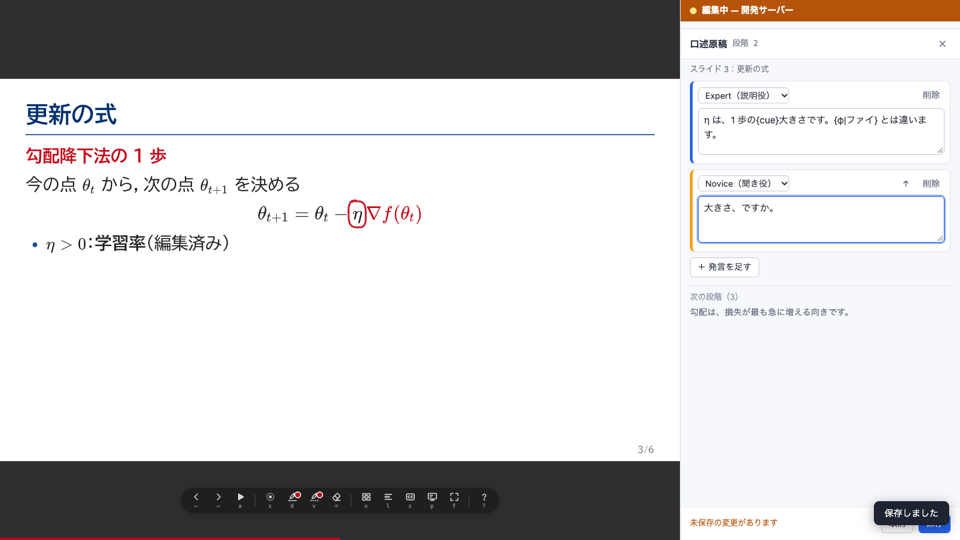
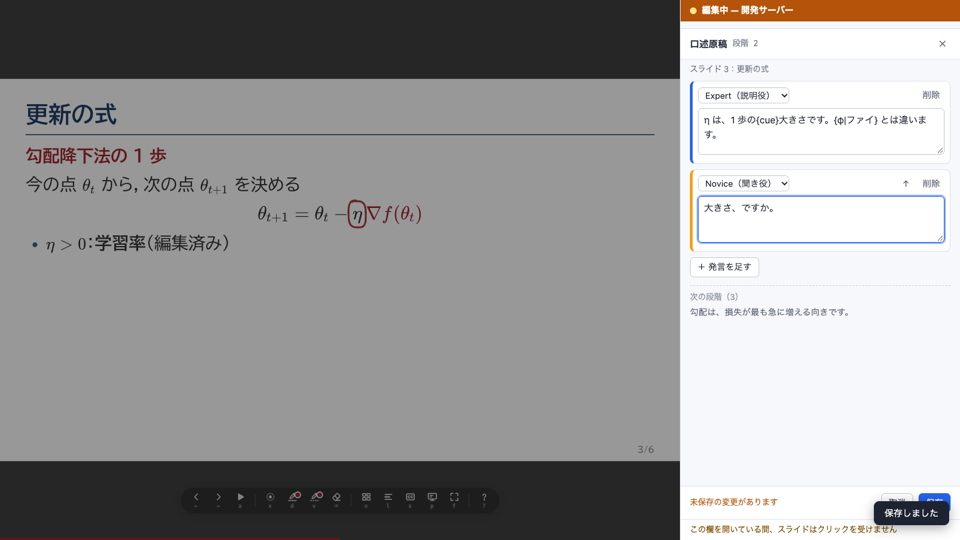
編集の画面：信頼する入力の欄で編集している間（原稿の欄・指示の欄を開いている、口述原稿の欄に入力している・未保存の変更がある）は、プレビューを inert にする（口述原稿の引き出しも。引き出しにも「スライドはクリックを受けません」を出す）。その間もデッキの位置の知らせは受け取るが、デッキからの知らせ（e・n・c・Escape・編集・指示）で板の欄を開け閉め・切り替えせず、入力している口述原稿の段階も替えない（欄から離れ、未保存の変更がなければ今の段階に付いていく）。口述原稿の引き出しの画面を撮り直す。試験：引き出しを開いただけでは inert でなく付いていく、欄に入ると inert で位置

diff --git a/server/editor-ui.js b/server/editor-ui.js
@@ -18,7 +18,10 @@
 // 信頼する編集の道具（編集モードの札・原稿の欄・コメントの欄と一覧・口述原稿の引き出し）は、どれもプレビューの外の横の板（#dev-side、
 // drawerHost の中で iframe の隣）に出す。スライドの場所に重ねる欄はない。板の上には、デッキが自分の枠の外に描けない印（色の帯）を付ける。
 // スライドの場所に見えるものは、どれもデッキが描けるもの：信じてよいのはこの板の道具だけ。
-// 原稿の欄・コメントの欄を開いている間は、プレビューを inert にしてクリックを受けない（欄への入力をデッキが横取りできない）
+// 信頼する入力の欄で編集している間（原稿の欄・コメントの欄を開いている、口述原稿の欄に入力している・未保存の変更がある）は、
+// プレビューを inert にしてクリックも鍵盤も受けない（欄への入力をデッキが横取りできない）。その間もデッキの位置の知らせは受け取るが、
+// デッキからの知らせで板の欄を開け閉めしたり、編集中の口述原稿の段階を替えたりはしない（頼んでいない切り替えで編集から離されない）。
+// 口述原稿の引き出しは、入力していなければ（欄から離れれば）今のスライドの段階に付いていく
 //   ui.message(e)  プレビューからの message（e.source は呼ぶ側でも確かめる）。扱ったら true
 //   ui.frameLoading(keepPos)  プレビューを読み込み直す前に呼ぶ（keepPos なら読み込んだ後に同じ位置へ戻す）
 //   ui.reset()  別のデッキを開いた（入力は捨てる）
@@ -79,6 +82,7 @@ const CSS = [
   '#dev-badge .dv-warn{background:#f59e0b;color:#231400;border-radius:999px;padding:0 8px;cursor:pointer;opacity:1}',
   '.dev-where{color:#4b5363;font-size:12.5px;margin:-2px 0 8px}',
   '.dev-lock{color:#7a4b00;font-size:12px;margin-top:6px}',
+  '#dev-narr .dev-lock{display:none;margin:0;padding:6px 14px;background:#fff;border-top:1px solid #e3e6ee}#dev-side.dv-locked #dev-narr .dev-lock{display:block}',
   'iframe.dev-locked{opacity:.55;filter:grayscale(.3)}',
   '#dev-mark{order:0}#dev-badge{order:1}#dev-editor{order:2}#dev-comment{order:3}#dev-comments{order:4}#dev-narr{order:5}',
   '#dev-editor{padding:12px 14px}',
@@ -172,13 +176,16 @@ export function createEditorUI(o) {
   }
 
   // ---------------------------------------------------------------- 状態
-  let editOn = false, pos = null, restorePos = null, info = null, target = null;
-  let editor = null, cbox = null, cpanel = null, commentsOpen = false, narrOpen = false, drawer = null, narr = null;
-  // 板を出すか（何か開いているとき）と、欄を開いている間のプレビューの鍵（inert：クリックも入力も受けない）
+  let editOn = false, pos = null, restorePos = null, info = null, target = null, ignored = 0;
+  let editor = null, cbox = null, cpanel = null, commentsOpen = false, narrOpen = false, drawer = null, narr = null, narrFocus = false;
+  // 信頼する入力の欄で編集しているか：原稿の欄・コメントの欄を開いている、口述原稿の欄に入力している（focus）・未保存の変更がある
+  const editing = () => !!(editor || cbox || (narr && (narr.dirty || narrFocus)));
+  // 板を出すか（何か開いているとき）と、編集している間のプレビューの鍵（inert：クリックも入力も受けない）
   function updateSide() {
     side.hidden = !(editOn || editor || cbox || cpanel || drawer);
-    const lock = !!(editor || cbox), f = frameEl();
+    const lock = editing(), f = frameEl();
     if (f) { f.inert = lock; f.classList.toggle('dev-locked', lock); }
+    side.classList.toggle('dv-locked', lock);
   }
   const busy = () => !!((editor && editor.ta.value !== editor.orig) || (cbox && cbox.ta.value.trim()));
   function sendState() { post({ type: 'edit-state', edit: editOn, target }); }
@@ -385,9 +392,17 @@ export function createEditorUI(o) {
     if (on && !enabled()) return false;
     if (on && o.beforeEdit && !(await o.beforeEdit('narr'))) return false;
     narrOpen = on;
-    if (drawer) { drawer.remove(); drawer = null; narr = null; }
+    if (drawer) { drawer.remove(); drawer = null; narr = null; narrFocus = false; }
     if (narrOpen) {
       drawer = h('aside', { id: 'dev-narr', cls: 'edit-ui', 'aria-label': L.nTitle });
+      // 口述原稿の欄（文字と話者）に入っている間は「編集している」。欄から離れたら、その間に動いた位置に付いていく
+      const field = (t) => !!(t && t.matches && t.matches('textarea, select'));
+      drawer.addEventListener('focusin', (e) => { if (field(e.target)) { narrFocus = true; updateSide(); } });
+      drawer.addEventListener('focusout', (e) => {
+        if (field(e.relatedTarget) && drawer && drawer.contains(e.relatedTarget)) return;
+        narrFocus = false; updateSide();
+        if (narr && !narr.dirty) setTimeout(() => { if (!narrFocus && narr && !narr.dirty) narrFollow(); }, 0);
+      });
       side.appendChild(drawer);
       narrFollow(true);
     } else focusFrame();
@@ -399,6 +414,7 @@ export function createEditorUI(o) {
     if (!drawer || !pos) { if (drawer && !narr) drawer.textContent = ''; return; }
     const key = pos.key;
     if (!force && narr && narr.key === key) { renderNext(); return; }
+    if (!force && narrFocus && narr && !narr.dirty) return;   // 入力している間は段階を替えない（欄から離れたら付いていく）
     if (narr && narr.dirty) {
       if (narr.key === key) return;
       const stale = drawer.querySelector('.dv-stale');
@@ -430,11 +446,12 @@ export function createEditorUI(o) {
     drawer.appendChild(h('div', { cls: 'dv-sub', text: L.slide(narr.i + 1, String(title).replace(/\s+/g, ' ').trim()) }));
     drawer.appendChild(body);
     drawer.appendChild(h('div', { cls: 'dv-foot' }, [status, revert, saveBtn]));
+    drawer.appendChild(h('div', { cls: 'dev-lock', text: L.locked }));
     const stale = h('div', { cls: 'dv-stale' }); body.appendChild(stale);
     const nmsg = h('div', { cls: 'dev-msg' }); body.appendChild(nmsg);
     if (loading) { saveBtn.disabled = true; body.appendChild(h('div', { cls: 'dev-empty', text: L.loading })); return; }
     if (narr.error) { saveBtn.disabled = true; showErr(nmsg, narr.error); return; }
-    const markDirty = () => { narr.dirty = true; status.textContent = L.dirty; status.className = 'dv-st dv-dirty'; };
+    const markDirty = () => { narr.dirty = true; status.textContent = L.dirty; status.className = 'dv-st dv-dirty'; updateSide(); };
     const list = h('div', { cls: 'dv-turns' }); body.appendChild(list);
     function drawTurns() {
       list.innerHTML = '';
@@ -473,7 +490,7 @@ export function createEditorUI(o) {
         saveBtn.disabled = false;
         if (j._status !== 200) { status.textContent = j._offline ? L.offline : (j.error || L.saveFail); status.className = 'dv-st dv-dirty'; return; }
         if (j.rev) cur.rev = j.rev;
-        cur.dirty = false; status.textContent = j.changed ? L.saved : L.noChange; status.className = 'dv-st';
+        cur.dirty = false; status.textContent = j.changed ? L.saved : L.noChange; status.className = 'dv-st'; updateSide();
         if (narr === cur && pos && pos.key !== cur.key) narrFollow(true);
       });
     }
@@ -483,7 +500,7 @@ export function createEditorUI(o) {
       e.stopPropagation();
     }
     saveBtn.onclick = doSave;
-    revert.onclick = () => { cur.dirty = false; narrFollow(true); };
+    revert.onclick = () => { cur.dirty = false; narrFocus = false; updateSide(); narrFollow(true); };
   }
   function renderNext(box) {
     box = box || (drawer && drawer.querySelector('.dv-next'));
@@ -536,9 +553,14 @@ export function createEditorUI(o) {
       const r = restorePos; restorePos = null;
       if (r) post({ type: 'deck-cmd', cmd: 'goto', i: r.i, k: r.k });
       sendState(); drawBadge();
-      loadInfo().then(() => { if (narrOpen && (!narr || !narr.dirty)) narrFollow(true); });
+      loadInfo().then(() => { if (narrOpen && (!narr || !(narr.dirty || narrFocus))) narrFollow(true); });
       if (commentsOpen) loadComments();
-    } else if (m.kind === 'key' && typeof m.key === 'string') key(m.key, true);
+      return true;
+    }
+    // 信頼する欄で編集している間は、デッキからの知らせで板の欄を開け閉め・切り替えしない（頼んでいない切り替えで編集から離されない。
+    // 本当にキーを押したのなら、プレビューは inert なのでデッキには届かない：知らせはデッキが自分で送ったもの）
+    if (editing() && (m.kind === 'key' || m.kind === 'edit' || m.kind === 'comment')) { ignored++; return true; }
+    if (m.kind === 'key' && typeof m.key === 'string') key(m.key, true);
     else if (m.kind === 'edit') openEditor(m);
     else if (m.kind === 'comment') openComment(m);
     return true;
@@ -569,6 +591,6 @@ export function createEditorUI(o) {
   return {
     message, frameLoading, reset, restoreSaved, toggleEdit, toggleNarr, toggleComments, toast,
     state: () => ({ edit: editOn, narr: narrOpen, comments: commentsOpen, editor: editor ? { range: editor.range, dirty: editor.ta.value !== editor.orig } : null,
-      comment: !!cbox, pos: pos && { ...pos }, narrKey: narr ? narr.key : null, narrDirty: !!(narr && narr.dirty) }),
+      comment: !!cbox, pos: pos && { ...pos }, narrKey: narr ? narr.key : null, narrDirty: !!(narr && narr.dirty), editing: editing(), ignored }),
   };
 }
